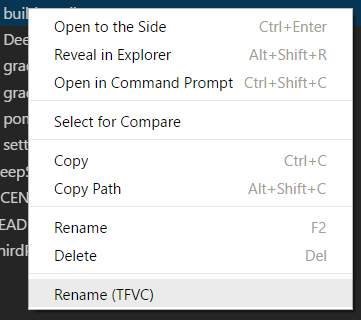
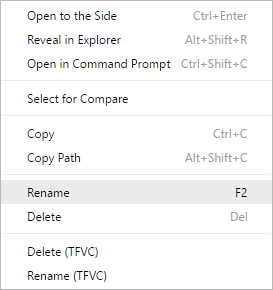
Add delete menu to file explorer (#249)

Changed region(s): [[0.0, 0.0, 1.0, 1.0], [0.674, 0.4345, 0.9084, 0.6207], [0.8205, 0.6517, 0.9084, 0.8379]]

diff --git a/src/tfvc/tfvc-extension.ts b/src/tfvc/tfvc-extension.ts
@@ -17,6 +17,7 @@ import { VsCodeUtils } from "../helpers/vscodeutils";
 import { IButtonMessageItem } from "../helpers/vscodeutils.interfaces";
 import { Telemetry } from "../services/telemetry";
 import { Resource } from "./scm/resource";
+import { Status } from "./scm/status";
 import { TfvcSCMProvider } from "./tfvcscmprovider";
 import { TfvcErrorCodes } from "./tfvcerror";
 import { TfvcRepository } from "./tfvcrepository";
@@ -52,6 +53,35 @@ export class TfvcExtension  {
             "Checkin");
     }
 
+    /**
+     * This command runs a delete command on the selected file.  It gets a Uri object from vscode.
+     */
+    public async Delete(uri?: Uri): Promise<void> {
+        this.displayErrors(
+            async () => {
+                if (uri) {
+                    const basename: string = path.basename(uri.fsPath);
+                    try {
+                        const message: string = `Are you sure you want to delete '${basename}'?`;
+                        if (await UIHelper.PromptForConfirmation(message, Strings.DeleteFile)) {
+                            Telemetry.SendEvent(this._repo.IsExe ? TfvcTelemetryEvents.DeleteExe : TfvcTelemetryEvents.DeleteClc);
+                            await this._repo.Delete([uri.fsPath]);
+                        }
+                    } catch (err) {
+                        //Provide a better error message if the file to be deleted isn't in the workspace (e.g., it's a new file)
+                        if (err.tfvcErrorCode && err.tfvcErrorCode === TfvcErrorCodes.FileNotInWorkspace) {
+                            this._manager.DisplayErrorMessage(`Cannot delete '${basename}' as it is not in your workspace.`);
+                        } else {
+                            throw err;
+                        }
+                    }
+                } else {
+                    this._manager.DisplayWarningMessage(Strings.CommandRequiresExplorerContext);
+                }
+            },
+            "Delete");
+    }
+
     public async Exclude(resources?: Resource[]): Promise<void> {
         this.displayErrors(
             async () => {
@@ -73,6 +103,7 @@ export class TfvcExtension  {
                 if (resources && resources.length > 0) {
                     const pathsToUnexclude: string[] = [];
                     const pathsToAdd: string[] = [];
+                    const pathsToDelete: string[] = [];
                     resources.forEach((resource) => {
                         const path: string = resource.resourceUri.fsPath;
                         //Unexclude each file passed in
@@ -82,12 +113,22 @@ export class TfvcExtension  {
                         if (!resource.IsVersioned) {
                             pathsToAdd.push(path);
                         }
+                        //If a file is a candidate change and has been deleted (e.g., outside of
+                        //the TFVC command), we need to ensure that it gets 'tf delete' run on it.
+                        if (resource.PendingChange.isCandidate && resource.HasStatus(Status.DELETE)) {
+                            pathsToDelete.push(path);
+                        }
                     });
 
                     //If we need to add files, run a single Add with those files
                     if (pathsToAdd.length > 0) {
                         Telemetry.SendEvent(this._repo.IsExe ? TfvcTelemetryEvents.AddExe : TfvcTelemetryEvents.AddClc);
                         await this._repo.Add(pathsToAdd);
+                    }
+                    //If we need to delete files, run a single Delete with those files
+                    if (pathsToDelete.length > 0) {
+                        Telemetry.SendEvent(this._repo.IsExe ? TfvcTelemetryEvents.DeleteExe : TfvcTelemetryEvents.DeleteClc);
+                        await this._repo.Delete(pathsToDelete);
                     }
 
                     //Otherwise, ensure its not in the explicitly excluded list (if it's already there)
@@ -175,7 +216,7 @@ export class TfvcExtension  {
                         } catch (err) {
                             //Provide a better error message if the file to be renamed isn't in the workspace (e.g., it's a new file)
                             if (err.tfvcErrorCode && err.tfvcErrorCode === TfvcErrorCodes.FileNotInWorkspace) {
-                                this._manager.DisplayErrorMessage(`Cannot rename ${basename} as it is not in your workspace.`);
+                                this._manager.DisplayErrorMessage(`Cannot rename '${basename}' as it is not in your workspace.`);
                             } else {
                                 throw err;
                             }
@@ -195,7 +236,7 @@ export class TfvcExtension  {
                     const localPath: string = resource.resourceUri.fsPath;
                     const resolveTypeString: string = UIHelper.GetDisplayTextForAutoResolveType(autoResolveType);
                     const basename: string = path.basename(localPath);
-                    const message: string = `Are you sure you want to resolve changes in ${basename} as ${resolveTypeString}?`;
+                    const message: string = `Are you sure you want to resolve changes in '${basename}' as ${resolveTypeString}?`;
                     if (await UIHelper.PromptForConfirmation(message, resolveTypeString)) {
                         Telemetry.SendEvent(this._repo.IsExe ? TfvcTelemetryEvents.ResolveConflictsExe : TfvcTelemetryEvents.ResolveConflictsClc);
                         await this._repo.ResolveConflicts([localPath], autoResolveType);
@@ -242,7 +283,7 @@ export class TfvcExtension  {
                     //When calling from UI, we have the uri of the resource from which the command was invoked
                     if (pathsToUndo.length > 0) {
                         const basename: string = path.basename(pathsToUndo[0]);
-                        let message: string = `Are you sure you want to undo changes to ${basename}?`;
+                        let message: string = `Are you sure you want to undo changes to '${basename}'?`;
                         if (pathsToUndo.length > 1) {
                             message = `Are you sure you want to undo changes to ${pathsToUndo.length.toString()} files?`;
                         }

diff --git a/src/tfvc/scm/model.ts b/src/tfvc/scm/model.ts
@@ -12,7 +12,7 @@ import { filterEvent } from "../util";
 import { Resource } from "./resource";
 import { ResourceGroup, IncludedGroup, ExcludedGroup, ConflictsGroup } from "./resourcegroups";
 import { IConflict, IPendingChange } from "../interfaces";
-import { ConflictType, GetStatuses, Status } from "./status";
+import { ConflictType, Status } from "./status";
 import { TfvcOutput } from "../tfvcoutput";
 
 import * as _ from "underscore";
@@ -137,9 +137,6 @@ export class Model implements Disposable {
 
         // Without any server context we can't run delete or resolve commands
         if (this._repository.HasContext) {
-            // Check for any pending deletes and run 'tf delete' on each
-            await this.processDeletes(changes);
-
             // Get the list of conflicts
             //TODO: Optimize out this call unless it is needed. This call takes over 4 times longer than the status call and is unecessary most of the time.
             foundConflicts = await this._repository.FindConflicts();
@@ -174,8 +171,8 @@ export class Model implements Disposable {
                 if (_.contains(this._explicitlyExcluded, resource.resourceUri.fsPath.toLowerCase())) {
                     return excluded.push(resource);
                 }
-                //Versioned changes should always be included
-                if (resource.IsVersioned) {
+                //Versioned changes should always be included (as long as they're not deletes)
+                if (resource.IsVersioned && !resource.HasStatus(Status.DELETE)) {
                     return included.push(resource);
                 }
                 //Pending changes should be included
@@ -209,21 +206,5 @@ export class Model implements Disposable {
             result = change.localItem.toLowerCase() === path2.toLowerCase();
         }
         return result;
-    }
-
-    //When files are deleted in the VS Code Explorer, they are marked as Deleted but as candidate changes
-    //So we are looking for those and then running the Delete command on each.
-    private async processDeletes(changes: IPendingChange[]): Promise<void> {
-        const deleteCandidatePaths: string[] = [];
-        for (let index: number = 0; index < changes.length; index++) {
-            const change: IPendingChange = changes[index];
-            if (change.isCandidate && GetStatuses(change.changeType).find((e) => e === Status.DELETE)) {
-                deleteCandidatePaths.push(change.localItem);
-            }
-        }
-        if (deleteCandidatePaths && deleteCandidatePaths.length > 0) {
-            Telemetry.SendEvent(this._repository.IsExe ? TfvcTelemetryEvents.DeleteExe : TfvcTelemetryEvents.DeleteClc);
-            await this._repository.Delete(deleteCandidatePaths);
-        }
     }
 }

diff --git a/src/extension.ts b/src/extension.ts
@@ -38,6 +38,7 @@ export async function activate(context: ExtensionContext) {
     context.subscriptions.push(commands.registerCommand(CommandNames.Reinitialize, () => _extensionManager.Reinitialize()));
 
     // TFVC Commands
+    context.subscriptions.push(commands.registerCommand(TfvcCommandNames.Delete, (...args) => _extensionManager.RunCommand(() => _extensionManager.Tfvc.Delete(args ? args[0] : undefined))));
     context.subscriptions.push(commands.registerCommand(TfvcCommandNames.UndoAll, () => _extensionManager.RunCommand(() => _extensionManager.Tfvc.UndoAll())));
     context.subscriptions.push(commands.registerCommand(TfvcCommandNames.Undo, (...args) => _extensionManager.RunCommand(() => _extensionManager.Tfvc.Undo(args))));
     context.subscriptions.push(commands.registerCommand(TfvcCommandNames.Exclude, (...args) => _extensionManager.RunCommand(() => _extensionManager.Tfvc.Exclude(args))));

diff --git a/src/helpers/strings.ts b/src/helpers/strings.ts
@@ -74,6 +74,7 @@ export class Strings {
     static TfServerWorkspace: string = "It appears you are using a Server workspace. Currently, TFVC support is limited to Local workspaces.";
     static ClcCannotAccessWorkspace: string = "It appears you are using the TEE CLC and are unable to access an existing workspace. The TFVC SCM Provider cannot be initialized. Click 'More details...' to learn more.";
     static UndoChanges: string = "Undo Changes";
+    static DeleteFile: string = "Delete File";
     static NoChangesToCheckin: string = "There are no changes to check in. Changes must be added to the 'Included' section to be checked in.";
     static NoChangesToUndo: string = "There are no changes to undo.";
     static AllFilesUpToDate: string = "All files are up to date.";

diff --git a/src/helpers/constants.ts b/src/helpers/constants.ts
@@ -43,6 +43,7 @@ export class CommandNames {
 export class TfvcCommandNames {
     static CommandPrefix: string = "tfvc.";
     static Checkin: string = TfvcCommandNames.CommandPrefix + "Checkin";
+    static Delete: string = TfvcCommandNames.CommandPrefix + "Delete";
     static Exclude: string = TfvcCommandNames.CommandPrefix + "Exclude";
     static ExcludeAll: string = TfvcCommandNames.CommandPrefix + "ExcludeAll";
     static Include: string = TfvcCommandNames.CommandPrefix + "Include";

diff --git a/TFVC_README.md b/TFVC_README.md
@@ -170,8 +170,9 @@ Access to renaming a file is provided on Visual Studio Code's File Explorer menu
 
 ![TFVC Rename](assets/tfvc-rename.png)
 
-* `Rename (TFVC)` – To properly rename a file in TFVC using the `Rename` command (instead of `Delete` and `Add`), use this option on
-Visual Studio Code's File Explorer. You will prompted for a new file name.
+* `Delete (TFVC)` – To properly delete a file in TFVC using the `Delete` command, use this option on Visual Studio Code's File Explorer. Since 1.119.0, the extension will no longer automatically promote candidate deletions to a TFVC delete.
+
+* `Rename (TFVC)` – To properly rename a file in TFVC using the `Rename` command (instead of `Delete` and `Add`), use this option on Visual Studio Code's File Explorer. You will prompted for a new file name.
 
 ## Additional Information
 ### Specifying a TFS Proxy
